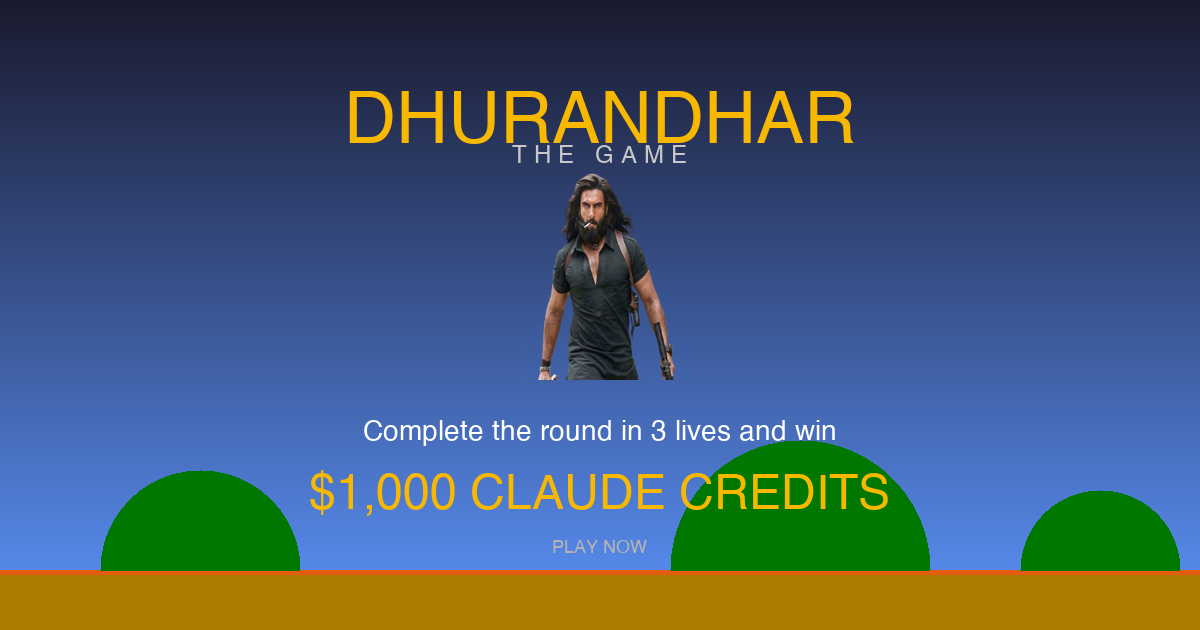
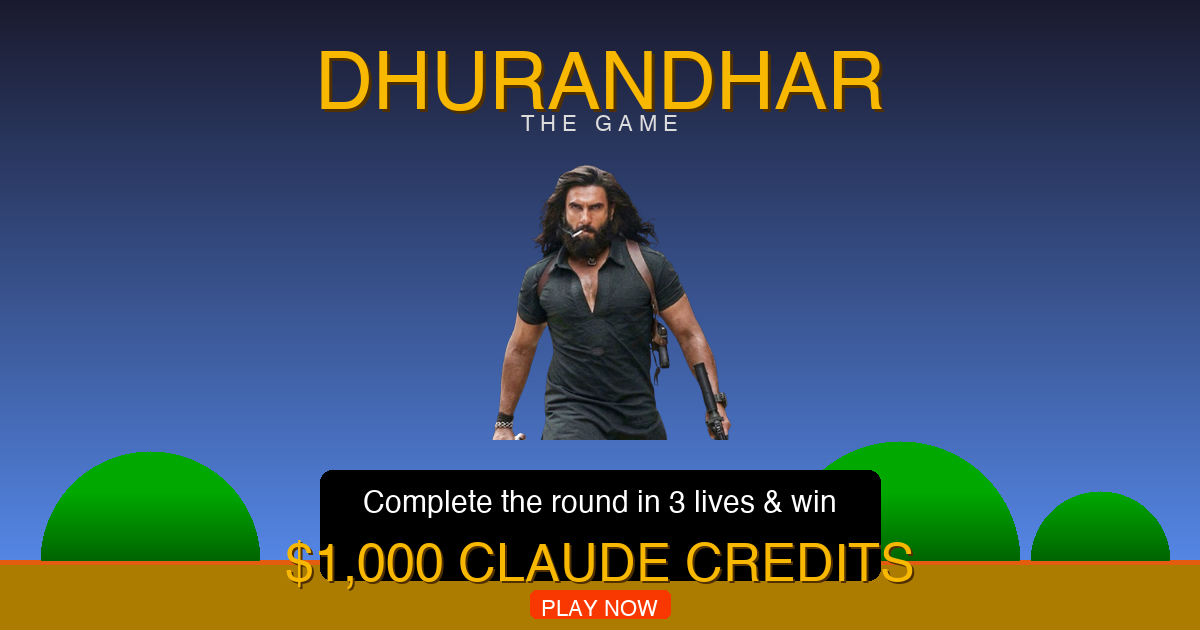
Fix OG image: better design with hero, hills, prize text, PLAY NOW badge
- Regenerated 1200x630 OG image with larger hero, gradient sky, green hills
- Added og:image:type meta tag
- Cache-busting query param (?v=2) to force LinkedIn to re-fetch
- "PLAY NOW" red badge at bottom of image

Changed region(s): [[0.0, 0.0603, 1.0, 0.9952]]

diff --git a/index.html b/index.html
@@ -10,14 +10,15 @@
 <meta property="og:title" content="Dhurandhar: The Game — Win $1000 Claude Credits">
 <meta property="og:description" content="Complete the round in 3 lives and win $1000 worth of Claude Credits. Can you beat it? Play now!">
 <meta property="og:type" content="website">
-<meta property="og:image" content="https://dhurandhar-mario.vercel.app/assets/og-image.png">
+<meta property="og:image" content="https://dhurandhar-mario.vercel.app/assets/og-image.png?v=2">
+<meta property="og:image:type" content="image/png">
 <meta property="og:image:width" content="1200">
 <meta property="og:image:height" content="630">
 <meta property="og:url" content="https://dhurandhar-mario.vercel.app">
 <meta name="twitter:card" content="summary_large_image">
 <meta name="twitter:title" content="Dhurandhar: The Game — Win $1000 Claude Credits">
 <meta name="twitter:description" content="Complete the round in 3 lives and win $1000 worth of Claude Credits. Play now!">
-<meta name="twitter:image" content="https://dhurandhar-mario.vercel.app/assets/og-image.png">
+<meta name="twitter:image" content="https://dhurandhar-mario.vercel.app/assets/og-image.png?v=2">
 <link rel="preconnect" href="https://fonts.googleapis.com">
 <link href="https://fonts.googleapis.com/css2?family=Press+Start+2P&display=swap" rel="stylesheet">
 <style>
